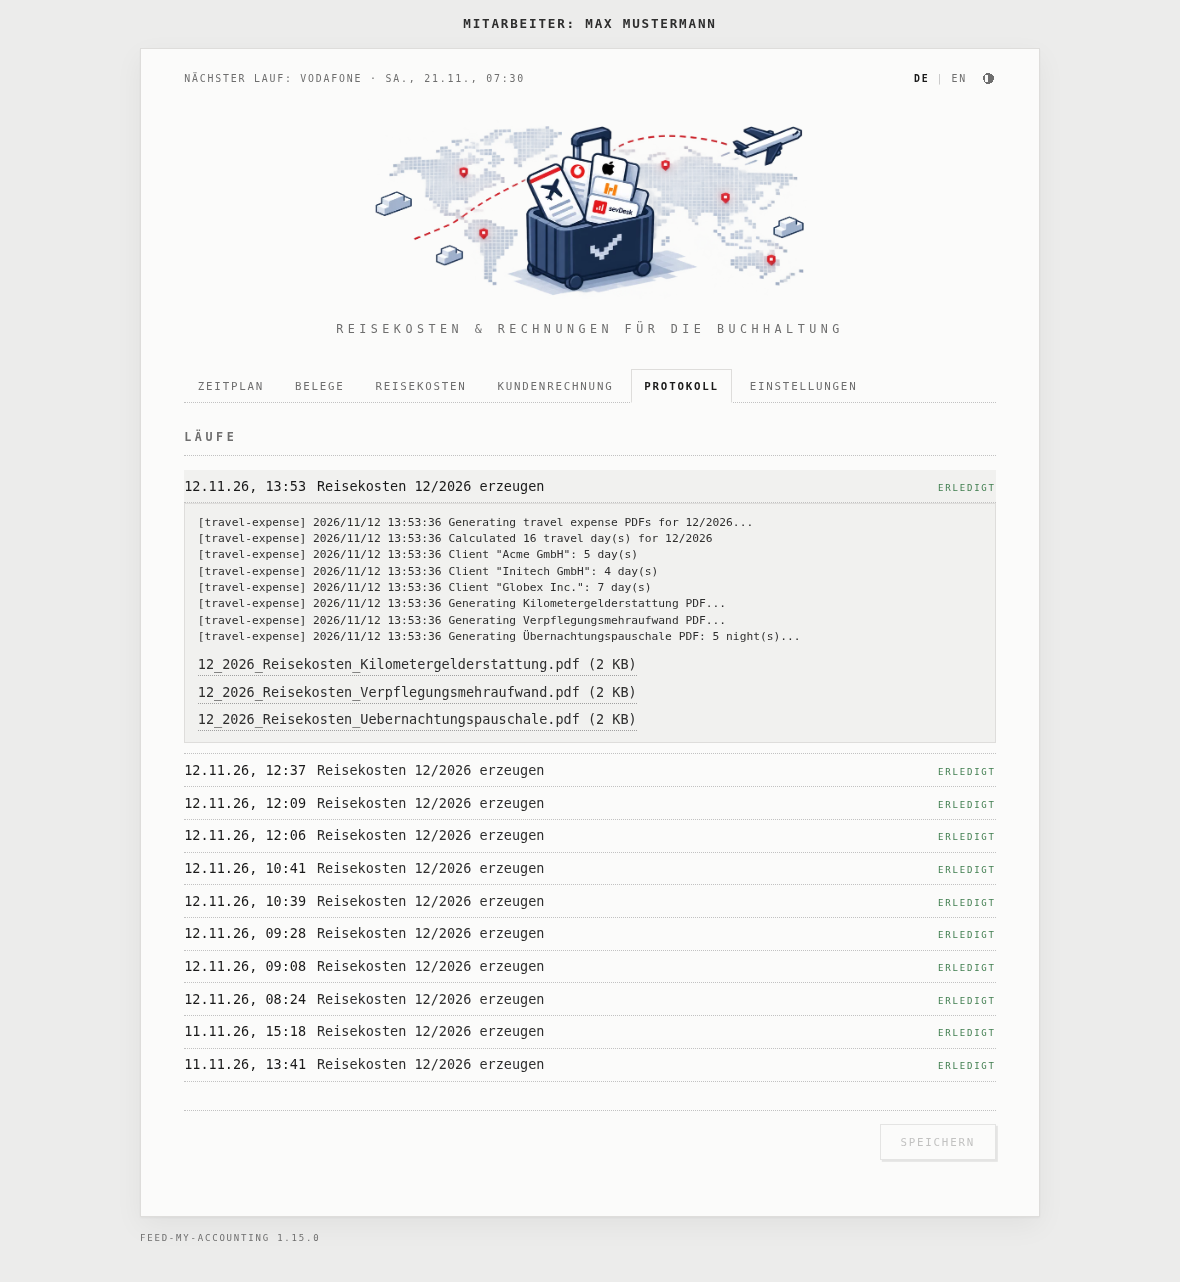
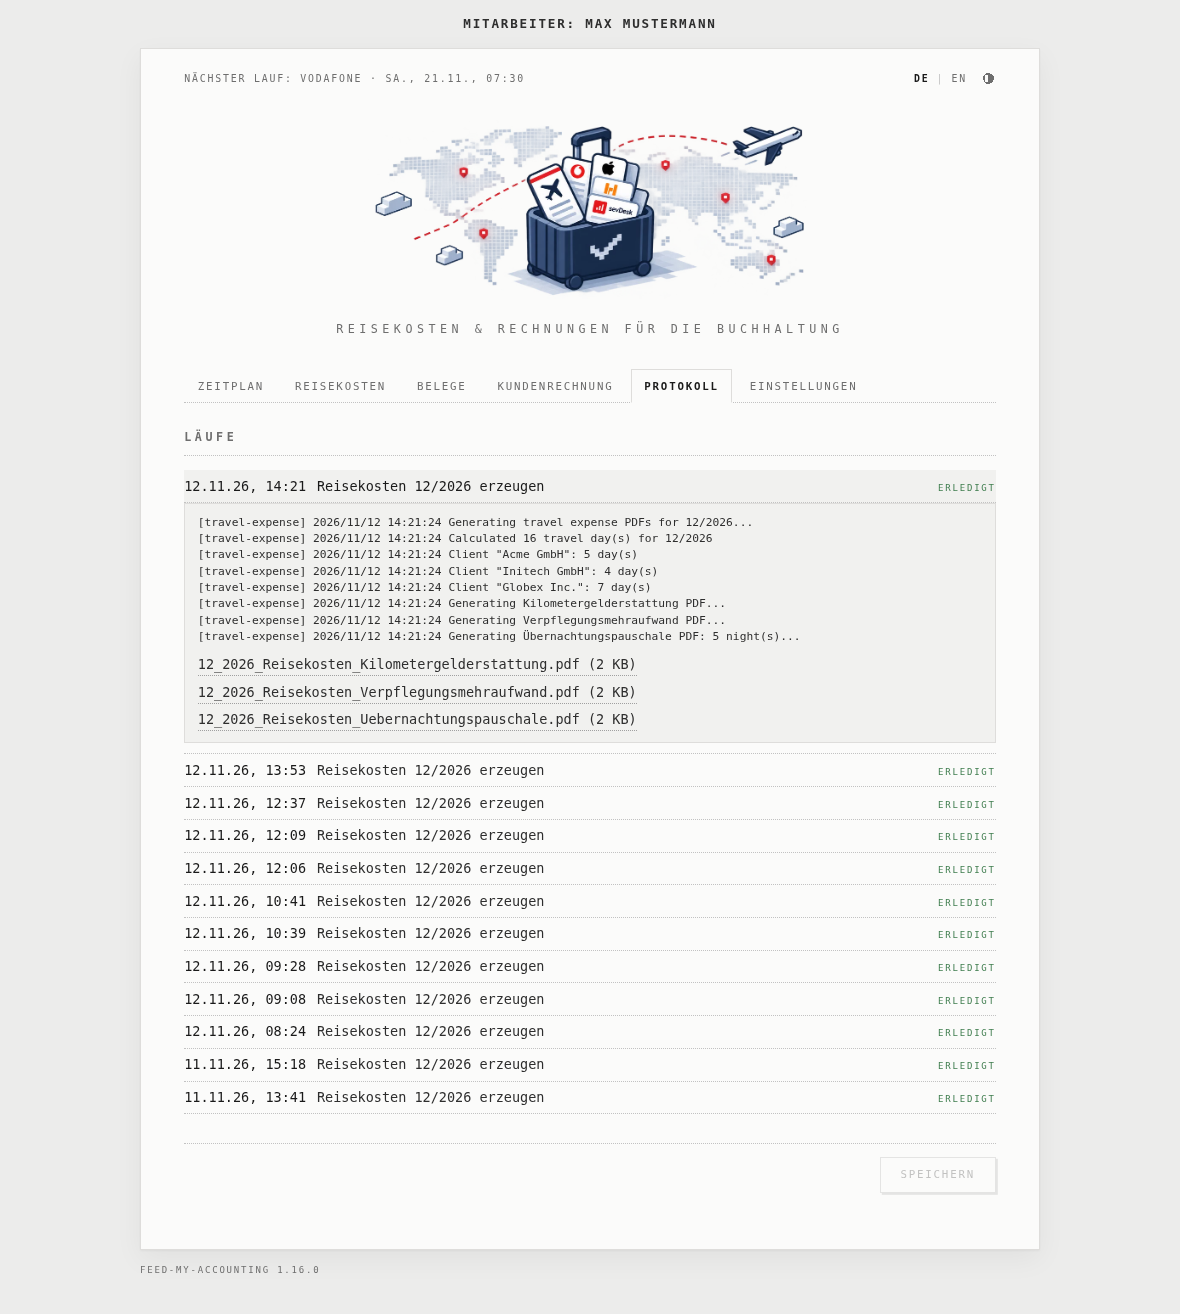
Tabs: Reisekosten before Belege; screenshots anew
Claude-Session: https://claude.ai/code/session_01FXXeyGX9nkbXjdAycGNCsJ

diff --git a/web/index.html b/web/index.html
@@ -36,8 +36,8 @@
 
     <nav class="tabs" aria-label="Bereiche" data-en-aria-label="Sections">
       <a href="#cron"><span lang="de">Zeitplan</span><span lang="en">Schedule</span></a>
-      <a href="#receipts"><span lang="de">Belege</span><span lang="en">Receipts</span></a>
       <a href="#travel"><span lang="de">Reisekosten</span><span lang="en">Travel</span></a>
+      <a href="#receipts"><span lang="de">Belege</span><span lang="en">Receipts</span></a>
       <a href="#invoice"><span lang="de">Kundenrechnung</span><span lang="en">Invoice</span></a>
       <a href="#log"><span lang="de">Protokoll</span><span lang="en">Log</span></a>
       <a href="#settings"><span lang="de">Einstellungen</span><span lang="en">Settings</span></a>

diff --git a/web/app.js b/web/app.js
@@ -121,7 +121,7 @@ for (const link of document.querySelectorAll('[data-lang-link]')) {
 
 // ── Tabs ───────────────────────────────────────────────────────────────────
 
-const TABS = ['cron', 'receipts', 'travel', 'invoice', 'log', 'settings'];
+const TABS = ['cron', 'travel', 'receipts', 'invoice', 'log', 'settings'];
 const loaders = {};
 
 function showTab() {

diff --git a/README.md b/README.md
@@ -4,7 +4,7 @@
   <img src="docs/logo.png" alt="feed-my-accounting: a suitcase packed with a boarding pass and the Vodafone, Apple, Harvest and sevDesk invoices, on a pixel world map with a flight path" width="640">
 </p>
 
-[![Version](https://img.shields.io/badge/version-1.16.0-blue.svg)](CHANGELOG.md)
+[![Version](https://img.shields.io/badge/version-1.16.1-blue.svg)](CHANGELOG.md)
 [![License](https://img.shields.io/badge/license-MIT-green.svg)](LICENSE)
 
 A single command that closes your books for the month.
@@ -108,8 +108,8 @@ Every setting is on the card where it is used. Nothing saves by itself: one red 
 | Card | What it does |
 |------|--------------|
 | **Zeitplan** | The schedule: each job with its cron expression (`minute hour day month weekday`, as in crontab, with Quartz's forms for days — see below), its next runs, its last result, and a switch to turn it off. Runs by hand start on their own cards. Replaces the crontab entries — keep only one of the two, or jobs run twice. |
-| **Belege** | Anthropic, Apple and Vodafone invoices on demand, each with its settings: the Anthropic and Apple mail filters, the Vodafone login. Each with *PDFs ansehen*, fetching them for download, and *Per Mail senden*, sending them too, after asking: Anthropic and Apple by month — `11/2026`, the current one at first — Vodafone the current month's. The schedule sends the current month's. |
 | **Reisekosten** | A month calendar: which client gets which day, day trips and overnight trips, holidays, blocked days, and each day's meal allowance and mileage, with the month's totals. *Zuordnungen* gives date ranges to a client explicitly; *Gesperrte Tage* blocks vacation and the like. Both are edited as drafts — add, *bearbeiten*, *entfernen* — and saved with the *Speichern* at the bottom; until then nothing changes. *PDFs ansehen* generates the two PDFs to look at; *Per Mail senden* sends them to the address under Einstellungen › E-Mail. Below: the clients — country, state, distance, meal rates — the name on the PDFs and the Christmas week. |
+| **Belege** | Anthropic, Apple and Vodafone invoices on demand, each with its settings: the Anthropic and Apple mail filters, the Vodafone login. Each with *PDFs ansehen*, fetching them for download, and *Per Mail senden*, sending them too, after asking: Anthropic and Apple by month — `11/2026`, the current one at first — Vodafone the current month's. The schedule sends the current month's. |
 | **Kundenrechnung** | *Aus Harvest anlegen* runs harvest-invoice for the month given next to it as on the command line (`11/2026`): the hours come from the Harvest API, and the month's work log PDF comes with the run for download — on iCloud Drive, say. *Nur Zeitnachweis* makes only the work log. Fewer hours than the month's workdays × 8 — workdays as the Reisekosten count them — log a warning with the link to the time entries in Harvest. As a fallback, behind its own flap at the foot of the card, *Zeitnachweis hochladen*: drop a Harvest PDF report in hours and Leistungszeitraum are read and shown for checking, then *Entwurf in sevDesk anlegen* creates the draft invoice — with the same duplicate check. Folded away beneath the buttons, *Einstellungen Kundenrechnung*: the sevDesk client, article and reference, the sevDesk login, the Harvest API token and the client's name in Harvest. |
 | **Protokoll** | The last 50 runs; a click opens a run's output under it, with the PDFs it made to download. The history is kept in `feed-my-accounting-jobs.json` next to the config; the PDFs until the server restarts, then listed by name only. Web addresses in the output are links. |
 | **Einstellungen** | What all of them share: the **company** — its name, and its logo (PNG or JPEG, kept beside the configuration as `feed-my-accounting-logo.png`), which the work log shows instead of the name — the **employees** — the one ticked is the Lieferant on the travel expenses and whose hours in Harvest make the work log and the invoice, named as in Harvest; shown at the top right as *Mitarbeiter* — the mail account, and the web interface's address and password. |
